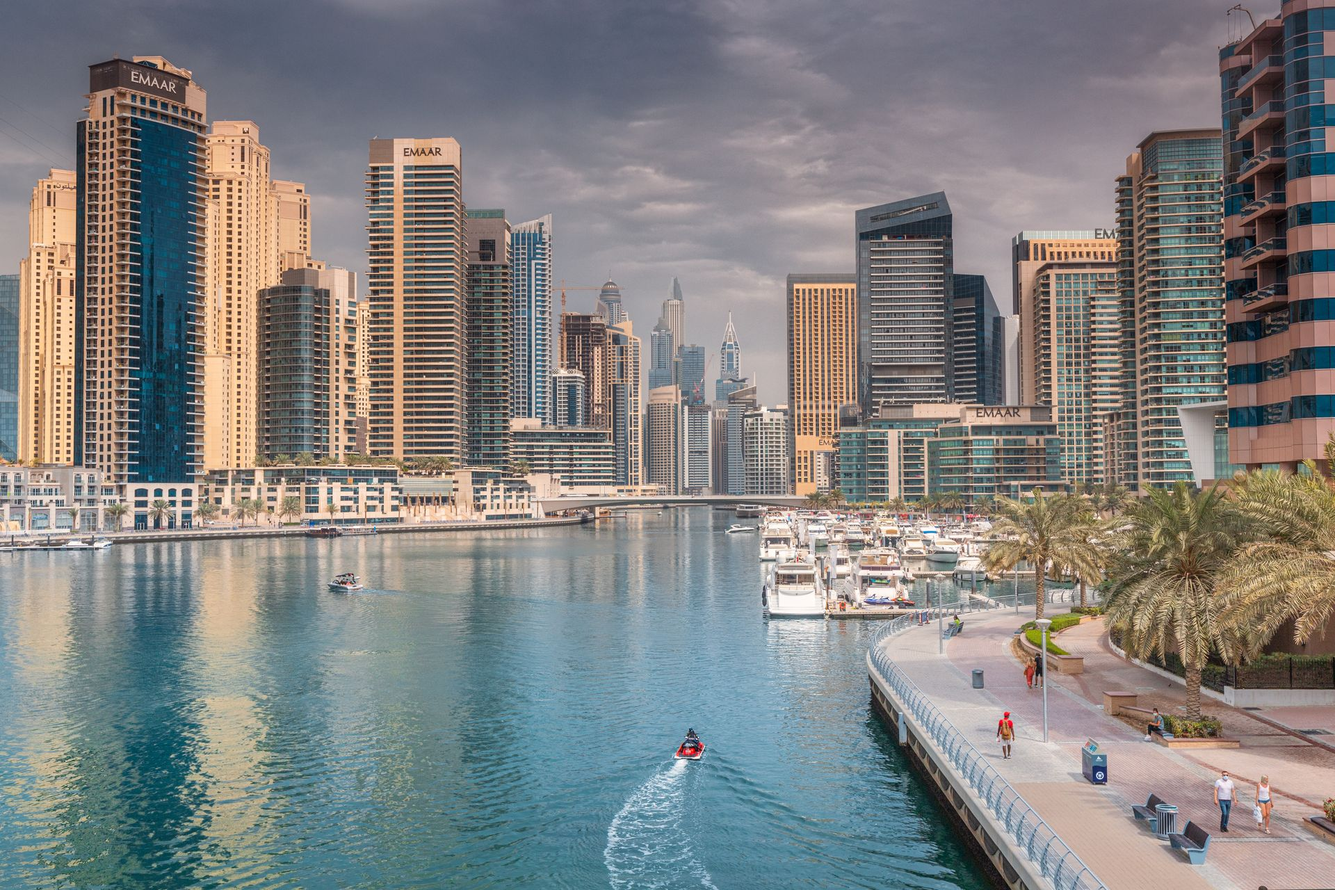
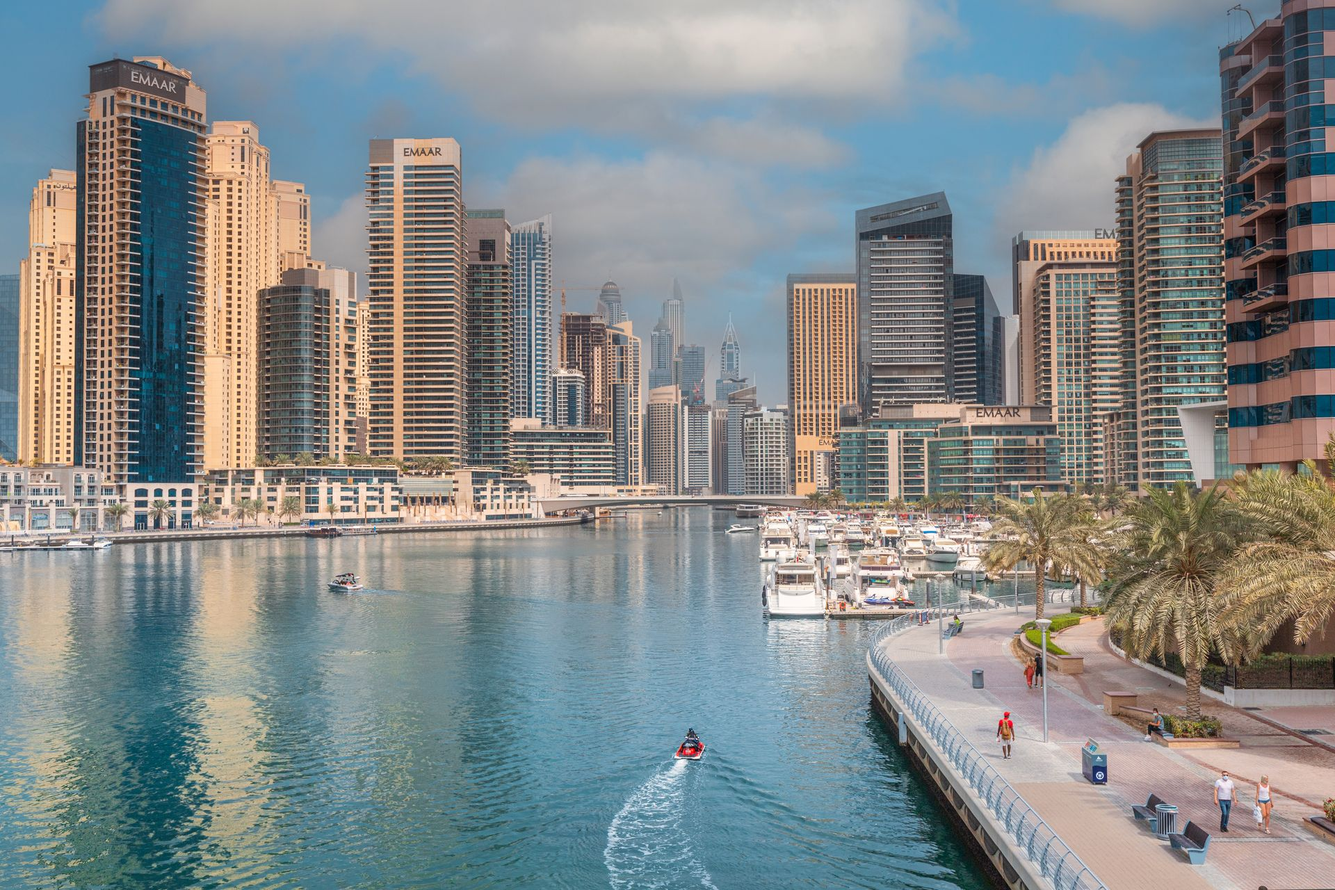
תמונת רקע חדשה לסקשן כל השלבים

Changed region(s): [[0.0, 0.0, 0.9688, 0.4688], [0.375, 0.25, 0.4062, 0.2812]]

diff --git a/index.html b/index.html
@@ -5,7 +5,7 @@
 <meta name="viewport" content="width=device-width, initial-scale=1">
 <title>NDN | השקעות נדל״ן בדובאי</title>
 <meta name="description" content="הון עצמי של 200–300 אלף ש״ח? הגיע הזמן שהכסף שלך יעבוד בשבילך בדובאי. ליווי מקצה לקצה, חיבור ישיר ליזמים המובילים, פתיחת חשבון בנק וחברה בדובאי בחינם.">
-<link rel="stylesheet" href="styles.css?v=99">
+<link rel="stylesheet" href="styles.css?v=100">
 </head>
 <body>
 
@@ -20,12 +20,12 @@
   <div class="loader-mark">
     <div class="loader-dim">
       <svg viewBox="0 0 304 202.667" preserveAspectRatio="xMidYMid meet"><path d="M152 3C192.818 3 230.103 27.6882 257.448 52.873C271.067 65.4161 282.098 77.9688 289.724 87.3877C293.535 92.0947 296.49 96.0134 298.489 98.749C299.249 99.7881 299.869 100.657 300.346 101.333C299.868 102.009 299.249 102.879 298.489 103.918C296.49 106.654 293.535 110.572 289.724 115.279C282.098 124.698 271.067 137.25 257.448 149.793C230.103 174.978 192.818 199.667 152 199.667C111.194 199.667 74.5247 174.991 47.4824 149.805C34.0134 137.26 23.0523 124.702 15.2949 115.262C11.4145 110.539 8.34666 106.611 6.14355 103.826C5.3548 102.829 4.66132 101.96 4.08105 101.255C4.61551 100.58 5.25599 99.7582 5.98535 98.8184C8.13573 96.0474 11.1797 92.1168 15.041 87.4004C22.7655 77.9654 33.7436 65.4091 47.25 52.8652C74.3681 27.6796 111.191 3 152 3Z"/></svg>
-      <img class="loader-palm" src="assets/icons/palm.svg?v=99" alt="">
+      <img class="loader-palm" src="assets/icons/palm.svg?v=100" alt="">
     </div>
     <div class="loader-fill-clip">
       <div class="loader-bright">
         <svg viewBox="0 0 304 202.667" preserveAspectRatio="xMidYMid meet"><path d="M152 3C192.818 3 230.103 27.6882 257.448 52.873C271.067 65.4161 282.098 77.9688 289.724 87.3877C293.535 92.0947 296.49 96.0134 298.489 98.749C299.249 99.7881 299.869 100.657 300.346 101.333C299.868 102.009 299.249 102.879 298.489 103.918C296.49 106.654 293.535 110.572 289.724 115.279C282.098 124.698 271.067 137.25 257.448 149.793C230.103 174.978 192.818 199.667 152 199.667C111.194 199.667 74.5247 174.991 47.4824 149.805C34.0134 137.26 23.0523 124.702 15.2949 115.262C11.4145 110.539 8.34666 106.611 6.14355 103.826C5.3548 102.829 4.66132 101.96 4.08105 101.255C4.61551 100.58 5.25599 99.7582 5.98535 98.8184C8.13573 96.0474 11.1797 92.1168 15.041 87.4004C22.7655 77.9654 33.7436 65.4091 47.25 52.8652C74.3681 27.6796 111.191 3 152 3Z"/></svg>
-        <img class="loader-palm" src="assets/icons/palm.svg?v=99" alt="">
+        <img class="loader-palm" src="assets/icons/palm.svg?v=100" alt="">
       </div>
     </div>
   </div>
@@ -36,8 +36,8 @@
   <div class="nav-inner">
     <a class="nav-call" href="tel:0505304085"><span class="nav-call-icon" aria-hidden="true"></span>חייגו עכשיו</a>
     <a class="nav-logo" href="#hero">
-      <img class="logo-dark" src="assets/icons/logo-header.png?v=99" alt="NDN">
-      <img class="logo-light" src="assets/icons/logo-footer.png?v=99" alt="" aria-hidden="true">
+      <img class="logo-dark" src="assets/icons/logo-header.png?v=100" alt="NDN">
+      <img class="logo-light" src="assets/icons/logo-footer.png?v=100" alt="" aria-hidden="true">
     </a>
     <nav class="nav-links">
       <a href="#hero" class="is-active">בית</a>
@@ -51,7 +51,7 @@
 <section class="sec sec-hero" id="hero">
   <div class="hero-stage">
     <div class="hero-layer hero-sky">
-      <img src="assets/img/hero-sky.webp?v=99" alt="">
+      <img src="assets/img/hero-sky.webp?v=100" alt="">
     </div>
     <div class="hero-copy">
       <h1 class="hero-title">
@@ -66,7 +66,7 @@
       <a class="hero-cta" href="#contact">לשיחת ייעוץ ←</a>
     </div>
     <div class="hero-layer hero-buildings">
-      <img src="assets/img/hero-buildings.webp?v=99" alt="קו הרקיע של דובאי">
+      <img src="assets/img/hero-buildings.webp?v=100" alt="קו הרקיע של דובאי">
       <div class="hero-fade"></div>
     </div>
   </div>
@@ -76,8 +76,8 @@
 <section class="sec sec-intro">
   <div class="wrap intro">
     <span class="intro-badge">
-      <img class="intro-badge-bg" src="assets/icons/intro-badge.svg?v=99" alt="">
-      <img class="intro-badge-icon" src="assets/icons/intro-badge-icon.svg?v=99" alt="">
+      <img class="intro-badge-bg" src="assets/icons/intro-badge.svg?v=100" alt="">
+      <img class="intro-badge-icon" src="assets/icons/intro-badge-icon.svg?v=100" alt="">
     </span>
     <h2 class="intro-head">
       <span class="b">המעטפת המלאה להשקעה בטוחה בדובאי.</span>
@@ -111,15 +111,15 @@
       </article>
     </div>
   </div>
-  <img class="problem-arc" src="assets/img/opp-divider.svg?v=99" alt="">
+  <img class="problem-arc" src="assets/img/opp-divider.svg?v=100" alt="">
 </section>
 
 <!-- ============ 4. OPPORTUNITY ============ -->
 <section class="sec sec-opp">
   <div class="opp-eye">
-    <img class="opp-ring" src="assets/img/opp-ring-a.svg?v=99" alt="">
-    <img class="opp-ring" src="assets/img/opp-ring-b.svg?v=99" alt="">
-    <img class="opp-eye-photo" src="assets/img/opp-eye-cut.webp?v=99" alt="דובאי">
+    <img class="opp-ring" src="assets/img/opp-ring-a.svg?v=100" alt="">
+    <img class="opp-ring" src="assets/img/opp-ring-b.svg?v=100" alt="">
+    <img class="opp-eye-photo" src="assets/img/opp-eye-cut.webp?v=100" alt="דובאי">
   </div>
   <div class="wrap opp-inner">
     <h2 class="opp-head">למה <strong>דובאי?</strong></h2>
@@ -151,24 +151,24 @@
 <!-- ============ 5. ABOUT / TEAM ============ -->
 <section class="sec sec-about" id="about">
   <div class="wrap about-stage">
-    <img class="about-photo" src="assets/img/team.webp?v=99" alt="דור ישראל ונתנאל אהרון">
+    <img class="about-photo" src="assets/img/team.webp?v=100" alt="דור ישראל ונתנאל אהרון">
     <div class="about-name-wrap"><h2 class="about-name"><span class="rg">נעים מאוד,</span><br>דור ישראל, ונתנאל אהרון</h2></div>
 
     <div class="about-grid">
       <div class="feat feat--r1">
-        <img class="feat-icon" src="assets/icons/palm.svg?v=99" alt="">
+        <img class="feat-icon" src="assets/icons/palm.svg?v=100" alt="">
         <p><strong>מעטפת ביורוקרטית בחינם: </strong>פתיחת חשבון בנק ופתיחת חברה בדובאי נעשות דרכנו וללא עלות נוספת מצדך.</p>
       </div>
       <div class="feat feat--l1">
-        <img class="feat-icon" src="assets/icons/palm.svg?v=99" alt="">
+        <img class="feat-icon" src="assets/icons/palm.svg?v=100" alt="">
         <p><strong>סינון קפדני: </strong>מציעים רק פרויקטים שעברו את הסינון הקפדני שלנו - יזמים יציבים בלבד, מיקומים בביקוש שיא ופוטנציאל תשואה מוכח.</p>
       </div>
       <div class="feat feat--r2">
-        <img class="feat-icon" src="assets/icons/palm.svg?v=99" alt="">
+        <img class="feat-icon" src="assets/icons/palm.svg?v=100" alt="">
         <p><strong>עבודה ישירה מול יזמי העל: </strong>קשרים ישירים עם היזמים הגדולים והבטוחים ביותר בדובאי, שמבטיחים מחירים בלעדיים וערבויות מלאות.</p>
       </div>
       <div class="feat feat--l2">
-        <img class="feat-icon" src="assets/icons/palm.svg?v=99" alt="">
+        <img class="feat-icon" src="assets/icons/palm.svg?v=100" alt="">
         <p><strong>ניהול נכס מלא: </strong>אתה לא צריך לטוס, לחפש שוכרים או להתעסק עם תקלות. אנחנו דואגים לניהול השוטף של הנכס מקצה לקצה.</p>
       </div>
     </div>
@@ -178,7 +178,7 @@
 <!-- ============ 6. PROCESS ============ -->
 <section class="sec sec-process">
   <div class="proc-stage">
-    <img class="proc-bg" src="assets/img/process-bg.jpg?v=99" alt="">
+    <img class="proc-bg" src="assets/img/process-bg.jpg?v=100" alt="">
     <div class="proc-shade"></div>
 
     <div class="proc-wrap">
@@ -224,9 +224,9 @@
 
 <!-- ============ 7. QUOTE ============ -->
 <section class="sec sec-quote">
-  <img class="quote-arc" src="assets/img/quote-arc.svg?v=99" alt="">
+  <img class="quote-arc" src="assets/img/quote-arc.svg?v=100" alt="">
   <div class="wrap quote">
-    <img class="quote-img" src="assets/img/dubai-round.webp?v=99" alt="דובאי בלילה">
+    <img class="quote-img" src="assets/img/dubai-round.webp?v=100" alt="דובאי בלילה">
     <div class="quote-body">
       <span class="quote-mark">"</span>
       <p>מי שמחכה שהזדמנויות יגיעו אליו – נשאר מאחור. <strong>מי שמעז </strong>לקחת את הצעד הראשון – הוא זה <strong>שמשיג שקט כלכלי.</strong></p>
@@ -255,8 +255,8 @@
         <div class="contact-aside">
           <h2 class="contact-head">לפעמים ההחלטה הכי טובה <strong>מתחילה בשיחה פשוטה.</strong></h2>
           <ul class="contact-lines">
-            <li><img src="assets/icons/phone-lg.svg?v=99" alt=""><a href="tel:0505304085">050-530-4085</a></li>
-            <li><img src="assets/icons/email-lg.svg?v=99" alt=""><a href="mailto:Info@NDN.com">Info@NDN.com</a></li>
+            <li><img src="assets/icons/phone-lg.svg?v=100" alt=""><a href="tel:0505304085">050-530-4085</a></li>
+            <li><img src="assets/icons/email-lg.svg?v=100" alt=""><a href="mailto:Info@NDN.com">Info@NDN.com</a></li>
           </ul>
         </div>
       </div>
@@ -265,7 +265,7 @@
     <div class="wrap footer-inner">
       <div class="footer-top">
         <div class="footer-brand">
-          <img class="footer-logo" src="assets/icons/logo-footer.png?v=99" alt="NDN">
+          <img class="footer-logo" src="assets/icons/logo-footer.png?v=100" alt="NDN">
           <p class="footer-copy">כל הזכויות שמורות לקבוצת NDN©</p>
         </div>
         <nav class="footer-nav">
@@ -274,14 +274,14 @@
           <a href="#contact">צרו קשר</a>
         </nav>
         <ul class="footer-contact">
-          <li><img src="assets/icons/phone.svg?v=99" alt=""><a href="tel:0505304085">050-530-4085</a></li>
-          <li><img src="assets/icons/email.svg?v=99" alt=""><a href="mailto:Info@NDN.com">Info@NDN.com</a></li>
-          <li><img src="assets/icons/pin.svg?v=99" alt="">הנביאים 4, פתח תקווה</li>
+          <li><img src="assets/icons/phone.svg?v=100" alt=""><a href="tel:0505304085">050-530-4085</a></li>
+          <li><img src="assets/icons/email.svg?v=100" alt=""><a href="mailto:Info@NDN.com">Info@NDN.com</a></li>
+          <li><img src="assets/icons/pin.svg?v=100" alt="">הנביאים 4, פתח תקווה</li>
         </ul>
       </div>
       <div class="footer-bottom">
         <span>עיצוב ופיתוח ע״י</span>
-        <img class="footer-credit" src="assets/icons/logo-designer.png?v=99" alt="">
+        <img class="footer-credit" src="assets/icons/logo-designer.png?v=100" alt="">
       </div>
     </div>
   </footer>
@@ -290,9 +290,9 @@
 
 
 
-<script src="smooth-scroll.js?v=99"></script>
-<script src="hero.js?v=99"></script>
-<script src="scroll-reveal.js?v=99"></script>
-<script src="process.js?v=99"></script>
+<script src="smooth-scroll.js?v=100"></script>
+<script src="hero.js?v=100"></script>
+<script src="scroll-reveal.js?v=100"></script>
+<script src="process.js?v=100"></script>
 </body>
 </html>
